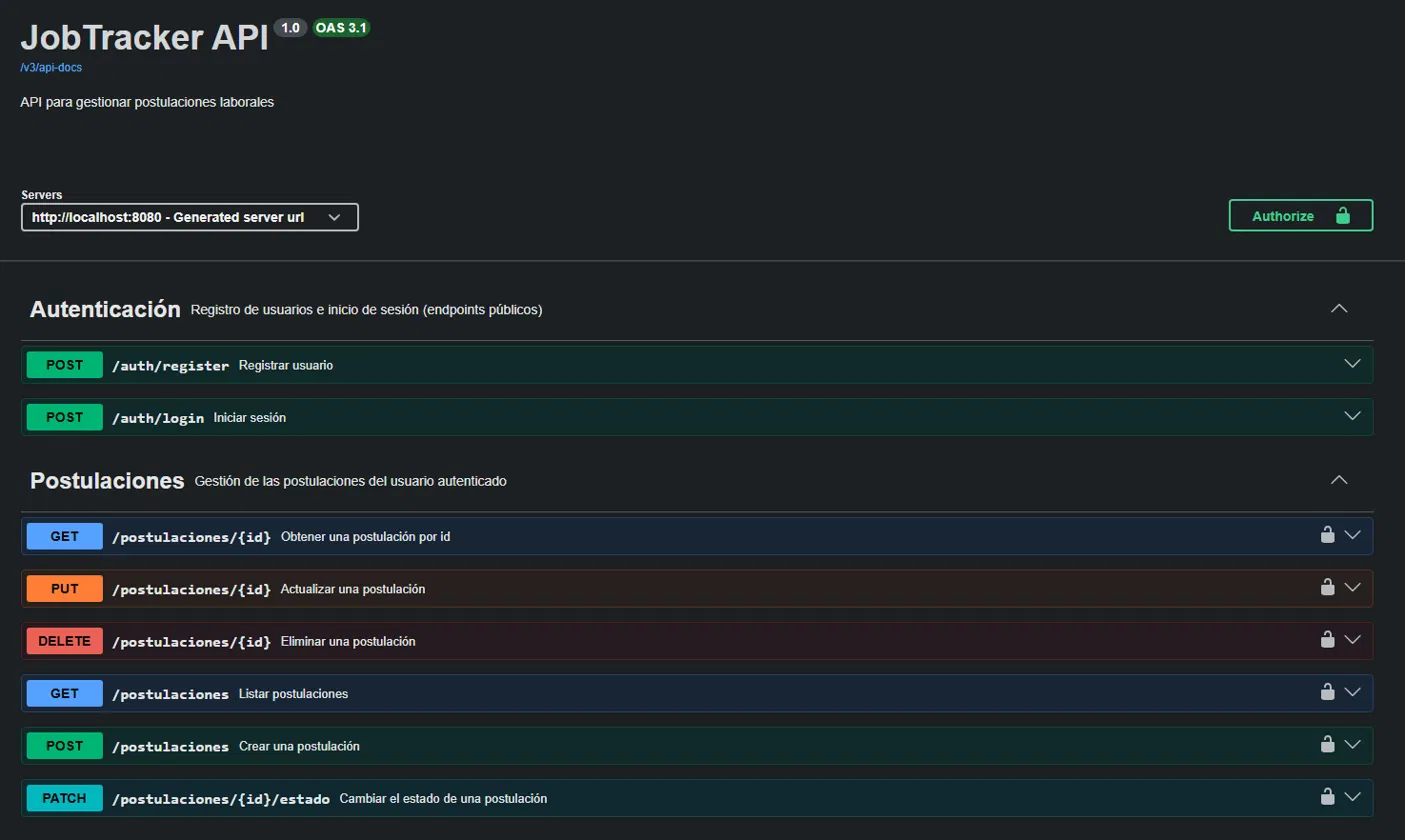
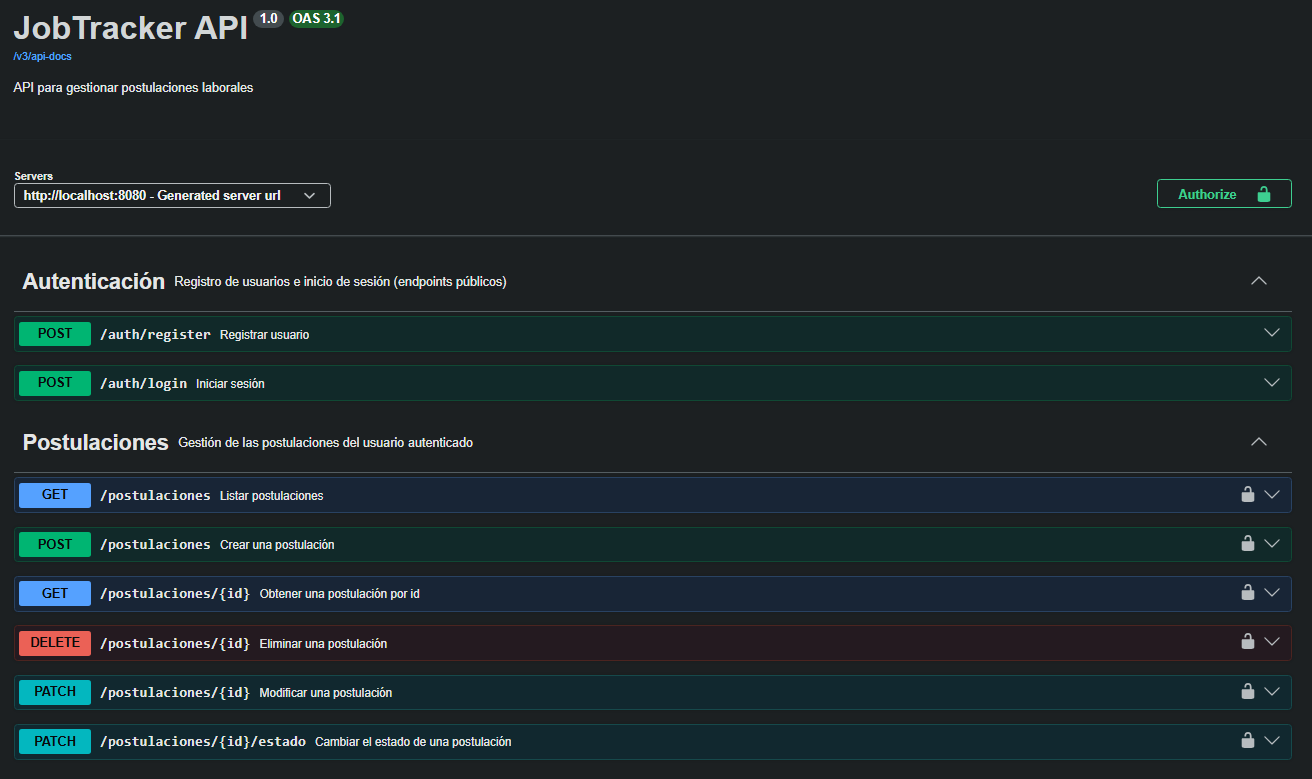
docs: documentar el PATCH de postulaciones en el README

diff --git a/README.md b/README.md
@@ -112,7 +112,8 @@ Ejemplo, crear una postulación (`POST /postulaciones`):
   "puesto": "Backend Developer Jr",
   "link": "https://ejemplo.com/oferta",
   "nota": "Entrevista técnica pendiente",
-  "seniority": "JUNIOR"
+  "seniority": "JUNIOR",
+  "descripcionOferta": "Buscamos desarrollador backend con Java, Spring Boot y MySQL."
 }
 ```
 
@@ -127,21 +128,22 @@ Respuesta (`201 Created`):
   "seniority": "JUNIOR",
   "link": "https://ejemplo.com/oferta",
   "nota": "Entrevista técnica pendiente",
-  "fechaPostulacion": "2026-10-27"
+  "fechaPostulacion": "2026-10-27",
+  "descripcionOferta": "Buscamos desarrollador backend con Java, Spring Boot y MySQL."
 }
 ```
 
 ## Endpoints
 
 | Método | Ruta | Descripción | Auth |
-|---|---|---|---|
-| POST | `/auth/register` | Registrar un usuario | No |
-| POST | `/auth/login` | Iniciar sesión y obtener el token | No |
-| POST | `/postulaciones` | Crear una postulación (estado inicial `ENVIADA`) | Sí |
-| GET | `/postulaciones` | Listar las propias, con filtros y paginación | Sí |
-| GET | `/postulaciones/{id}` | Obtener una postulación | Sí |
-| PUT | `/postulaciones/{id}` | Actualizar los datos de una postulación | Sí |
-| PATCH | `/postulaciones/{id}/estado` | Cambiar el estado | Sí |
+|--------|---|---|---|
+| POST   | `/auth/register` | Registrar un usuario | No |
+| POST   | `/auth/login` | Iniciar sesión y obtener el token | No |
+| POST   | `/postulaciones` | Crear una postulación (estado inicial `ENVIADA`) | Sí |
+| GET    | `/postulaciones` | Listar las propias, con filtros y paginación | Sí |
+| GET    | `/postulaciones/{id}` | Obtener una postulación | Sí |
+| PATCH    | `/postulaciones/{id}` | Modificar parcialmente una postulación | Sí |
+| PATCH  | `/postulaciones/{id}/estado` | Cambiar el estado | Sí |
 | DELETE | `/postulaciones/{id}` | Eliminar una postulación | Sí |
 
 Parámetros opcionales del listado: `estado`, `buscar`, `page`, `size` y `sort`.
@@ -166,6 +168,7 @@ Los tests de integración necesitan Docker en ejecución. Todo el conjunto corre
 - **Contraseñas con BCrypt**: nunca se guardan ni se devuelven en texto plano.
 - **DTOs separados** para entrada y salida, para no exponer las entidades.
 - **Esquema versionado con Flyway**: cada cambio de la base es un archivo SQL numerado y revisable en un Pull Request; Hibernate solo valida que las entidades coincidan con el esquema.
+- **`PATCH` para modificar postulaciones**: solo se actualizan los campos que se envían, y un texto opcional se borra enviándolo vacío. El estado tiene su propio endpoint (`PATCH /postulaciones/{id}/estado`).
 
 ## Próximos pasos
 
